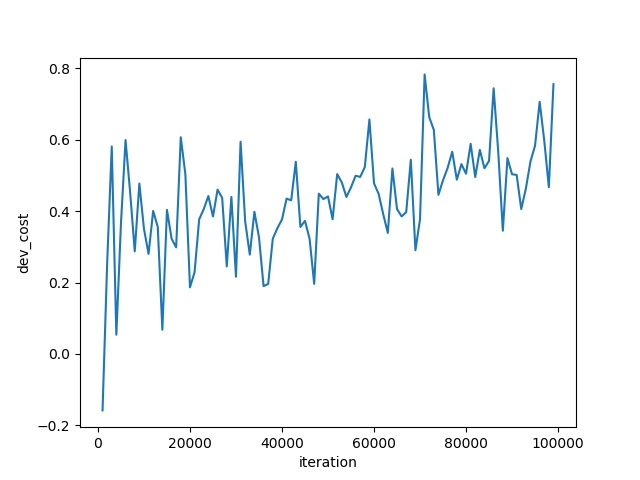
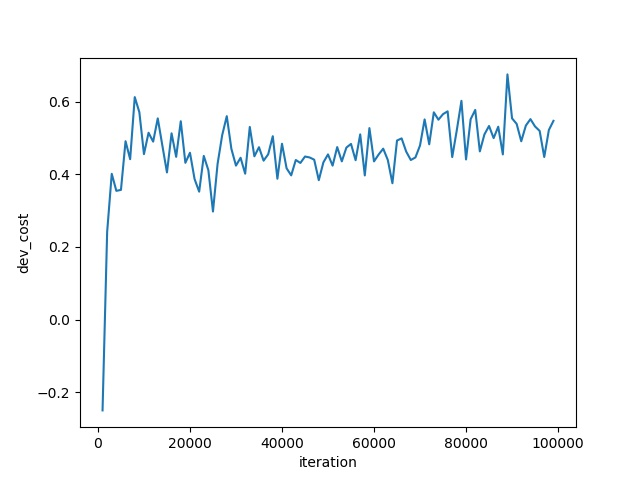
Update.

diff --git a/ACGAN/train.py b/ACGAN/train.py
@@ -136,14 +136,14 @@ def train():
 
     global_step = tf.Variable(0, trainable=False)
     tf.summary.scalar('global_step', global_step)
-    # learning_rate = tf.train.polynomial_decay(0.0002, global_step, args.max_iter // 2 * args.n_dis, 0.0001)
-    # tf.summary.scalar('learning_rate', learning_rate)
-    g_opt = tf.train.AdamOptimizer(learning_rate=0.0002, beta1=0.5, beta2=0.999, epsilon=1e-8)
-    # g_opt = tf.train.AdamOptimizer(learning_rate=0.0002, beta1=0., beta2=0.9, epsilon=1e-8)
+    learning_rate = tf.train.polynomial_decay(0.0004, global_step, args.max_iter // 2, 0.0002)
+    tf.summary.scalar('learning_rate', learning_rate)
+    # g_opt = tf.train.AdamOptimizer(learning_rate=0.0002, beta1=0.5, beta2=0.999, epsilon=1e-8)
+    g_opt = tf.train.AdamOptimizer(learning_rate=learning_rate, beta1=0., beta2=0.9, epsilon=1e-8)
     g_train_op = g_opt.minimize(loss=g_loss, var_list=g_vars, global_step=global_step)
-    d_opt = tf.train.AdamOptimizer(learning_rate=0.001, beta1=0.5, beta2=0.999, epsilon=1e-8)
-    # d_opt = tf.train.AdamOptimizer(learning_rate=0.001, beta1=0., beta2=0.9, epsilon=1e-8)
-    d_train_op = d_opt.minimize(loss=d_loss, var_list=d_vars, global_step=global_step)
+    # d_opt = tf.train.AdamOptimizer(learning_rate=0.001, beta1=0.5, beta2=0.999, epsilon=1e-8)
+    d_opt = tf.train.AdamOptimizer(learning_rate=learning_rate, beta1=0., beta2=0.9, epsilon=1e-8)
+    d_train_op = d_opt.minimize(loss=d_loss, var_list=d_vars)
 
     # Function for generating samples
     fixed_z = tf.constant(lib.misc.get_z(100, n_hidden=args.z_dim), dtype=tf.float32)
@@ -175,7 +175,7 @@ def train():
 
     config = tf.ConfigProto(allow_soft_placement=True)
     config.gpu_options.allow_growth = True
-    with tf.Session() as sess:
+    with tf.Session(config=config) as sess:
         summary_writer = tf.summary.FileWriter(args.checkpoint_dir, sess.graph)
         sess.run(tf.global_variables_initializer())
 

diff --git a/ACGAN/README.md b/ACGAN/README.md
@@ -26,7 +26,7 @@ The inception_50k_std curve:
 
 ### Inception Score
 
-The **inception_50k** is : `7.831849098205566 ± 0.07496337592601776`, the inception score can be improved by changint nerwork architecture or tuning hyperparameters.
+The **inception_50k** is : `7.865674018859863, ± 0.09258274734020233`, the inception score can be improved by changint nerwork architecture or tuning hyperparameters.
 
 I really don't konw how to improve it, if you know how to fix this, a PR is welcomed.
 
@@ -41,9 +41,10 @@ CUDA_VISIBLE_DEVICES=0 python ACGAN/train.py \
   --max_iter=100000 \
   --loss_type='WGAN-GP' \
   --n_dis=5 \
-  --acgan_scale_G=0.1 \
-  --data_dir='/home/yhx/sn_gan/cifar-10'
+  --acgan_scale_G=0.4 \
+  --data_dir='/home/yhx/gan_lib/cifar-10'
 
+// adam超参数改为使用wgan-gp的设定
 ```
 
 
